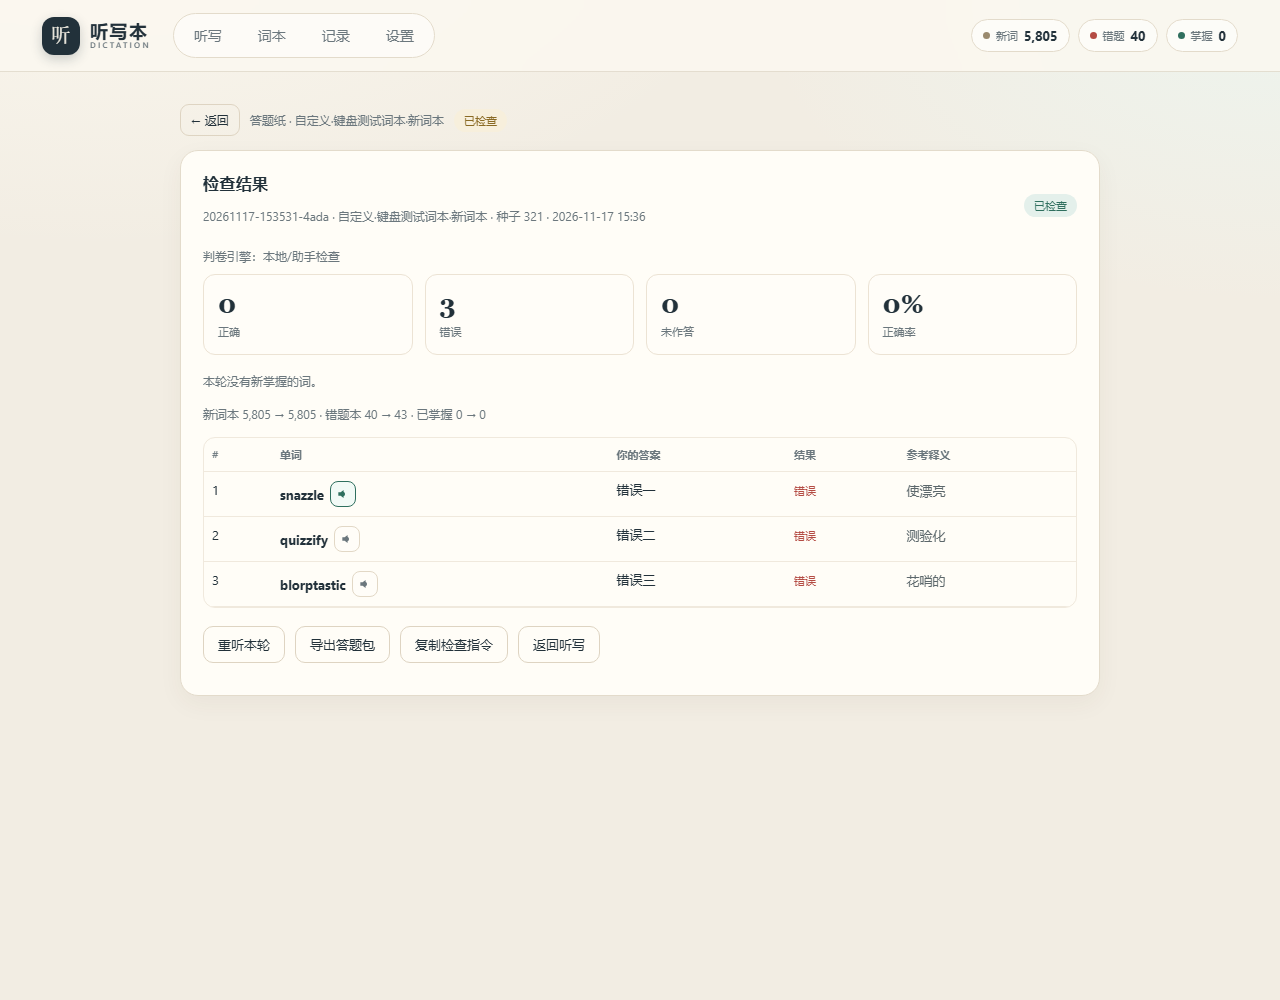
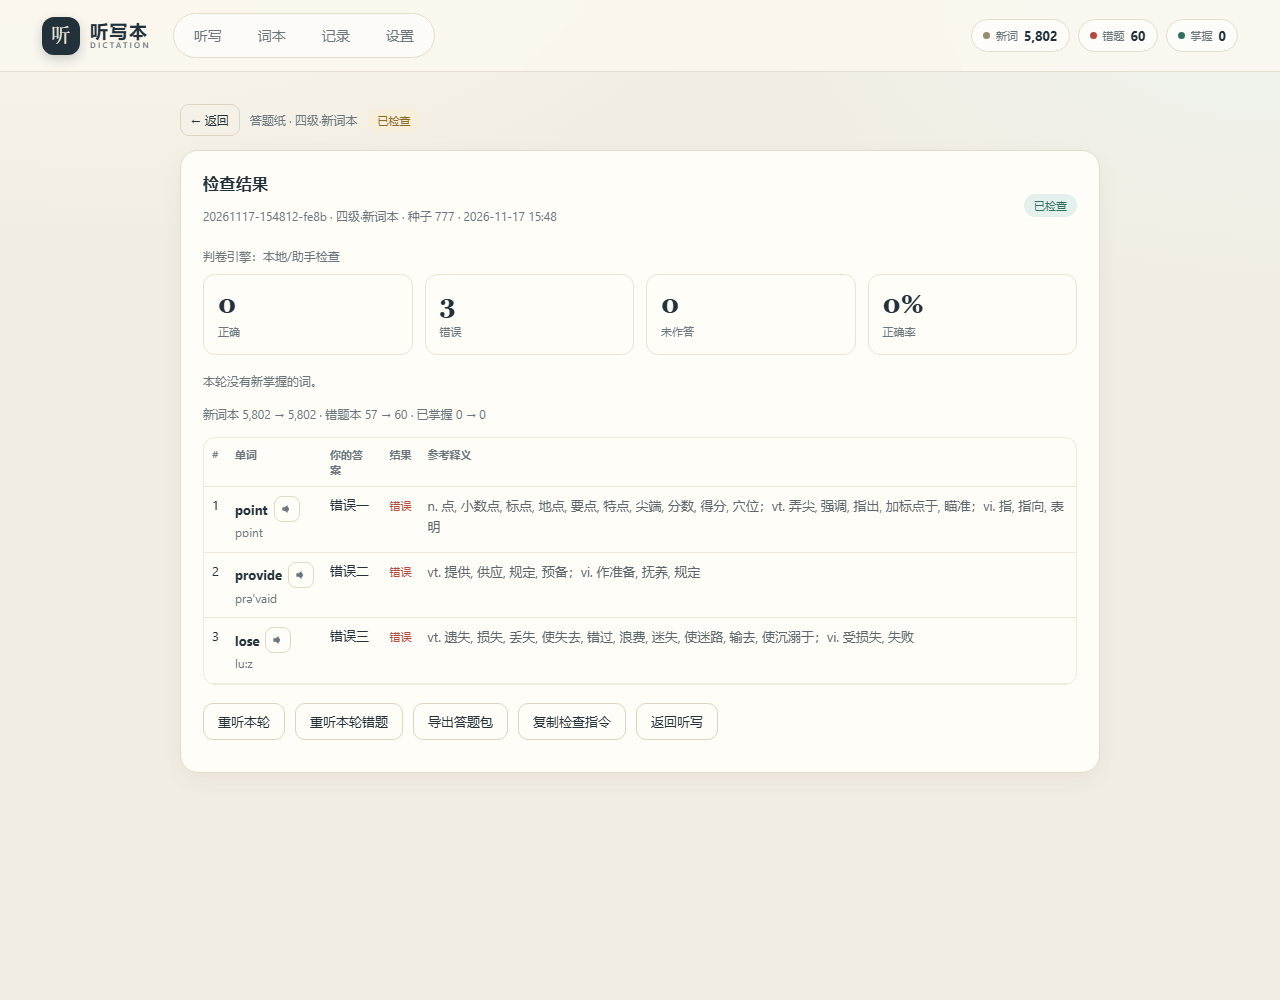
v0.2.1: replay this round's wrong words

diff --git a/web/app.js b/web/app.js
@@ -1497,6 +1497,7 @@ function renderResult(report) {
     </div>
     <div class="actions">
       <button class="ghost" type="button" data-replay-session="${escapeHtml(session.id)}">重听本轮</button>
+      <button class="ghost" type="button" data-retry-wrong="${escapeHtml(session.id)}">重听本轮错题</button>
       <button class="ghost" type="button" data-export-packet="${escapeHtml(session.id)}">导出答题包</button>
       <button class="ghost" type="button" data-copy-check="${escapeHtml(session.id)}">复制检查指令</button>
       <button class="ghost" type="button" data-nav="setup">返回听写</button>
@@ -1694,6 +1695,19 @@ async function replaySession(id) {
   }
 }
 
+async function retryWrongWords(id) {
+  try {
+    const data = await api(`/api/sessions/${id}/retry-wrong`, {
+      method: 'POST',
+      body: { mode: state.mode, interval: state.interval, repeat: state.repeat },
+    });
+    toast(`本轮错题 ${data.wrong_count} 个，开始重听`);
+    startSession(data.session);
+  } catch (err) {
+    toast(err.message, 'error');
+  }
+}
+
 /* ------------------------------------------------------------------ */
 /* settings                                                            */
 /* ------------------------------------------------------------------ */
@@ -1841,6 +1855,8 @@ function bindEvents() {
     if (speak) { speakWord(speak.dataset.speakWord); return; }
     const replay = event.target.closest('[data-replay-session]');
     if (replay) { replaySession(replay.dataset.replaySession); return; }
+    const retry = event.target.closest('[data-retry-wrong]');
+    if (retry) { retryWrongWords(retry.dataset.retryWrong); return; }
     const exportBtn = event.target.closest('[data-export-packet]');
     if (exportBtn) { exportPacket(); return; }
     const copyBtn = event.target.closest('[data-copy-check]');

diff --git a/server.py b/server.py
@@ -298,6 +298,79 @@ class App:
             "markdown": report_markdown(session, check),
         }
 
+    def retry_wrong(self, session_id: str, payload: dict[str, Any]) -> dict[str, Any]:
+        session = load_session(self.data_dir, session_id)
+        if not session:
+            raise ApiError(404, "找不到这个场次")
+        check = load_check(self.data_dir, session_id)
+        if not check:
+            raise ApiError(409, "这一轮还没有检查记录，不能生成本轮错题")
+        wrong_items = [
+            item for item in (check.get("items") or [])
+            if item.get("verdict") != "correct"
+        ]
+        if not wrong_items:
+            raise ApiError(409, "本轮没有错题，全部正确。")
+        original_words = {str(word.get("n")): word for word in (session.get("words") or [])}
+        words = []
+        for word in wrong_items:
+            n = str(word.get("n"))
+            original = original_words.get(n, {})
+            text = str(word.get("word") or original.get("word") or "").strip()
+            if not text:
+                continue
+            words.append({
+                "n": len(words) + 1,
+                "word": text,
+                "phonetic": str(word.get("phonetic") or original.get("phonetic") or ""),
+                "translation": str(word.get("expected") or original.get("translation") or ""),
+                "frq": int(original.get("frq") or 0),
+                "bnc": int(original.get("bnc") or 0),
+                "tags": list(original.get("tags") or ["retry"]),
+            })
+        if not words:
+            raise ApiError(409, "本轮错题没有可重听的单词")
+        try:
+            interval = int(payload.get("interval") or session.get("interval") or 6)
+            repeat = int(payload.get("repeat") or session.get("repeat") or 1)
+        except (TypeError, ValueError):
+            raise ApiError(400, "数字参数格式不正确")
+        mode = str(payload.get("mode") or session.get("mode") or "auto")
+        if mode not in {"auto", "manual"}:
+            raise ApiError(400, "mode 只能是 auto / manual")
+        interval = max(1, min(30, interval))
+        repeat = 2 if repeat == 2 else 1
+        source_name = f"本轮错题 · {session.get('source_name') or '听写'}"
+        new_session = {
+            "id": new_session_id(),
+            "created_at": now_iso(),
+            "app_version": __version__,
+            "source": "retry_wrong",
+            "source_name": source_name,
+            "level": "retry",
+            "book": "wrong",
+            "seed": random_seed(),
+            "order": "original",
+            "mode": mode,
+            "interval": interval,
+            "repeat": repeat,
+            "threshold": int(self.settings().get("threshold") or 5),
+            "pool_requested": len(words),
+            "pool_available": len(words),
+            "pool_size": len(words),
+            "count_requested": len(words),
+            "count": len(words),
+            "heard_count": 0,
+            "words": words,
+        }
+        with self.lock:
+            save_session(self.data_dir, new_session)
+        return {
+            "session": self.public_session(new_session),
+            "from_session": session_id,
+            "wrong_count": len(words),
+        }
+
     # ------------------------------------------------------------------
     # AI grading
     # ------------------------------------------------------------------
@@ -640,6 +713,9 @@ def make_handler(app: App):
                     return
                 if sub == "report" and method == "GET":
                     self._json(200, app.report(session_id))
+                    return
+                if sub == "retry-wrong" and method == "POST":
+                    self._json(201, app.retry_wrong(session_id, self._body()))
                     return
                 if sub == "heard" and method == "POST":
                     self._json(200, app.update_heard(session_id, self._body()))

diff --git a/tests/test_api.py b/tests/test_api.py
@@ -190,6 +190,39 @@ class ApiTests(unittest.TestCase):
         status, wrongbook = self.request("GET", "/api/books?book=wrong")
         self.assertEqual(wrongbook["total"], 1)
 
+    def test_retry_wrong_session(self):
+        status, created = self.request("POST", "/api/sessions", {
+            "source": "new_all", "pool": 7, "count": 3, "seed": 11,
+        })
+        session_id = created["session"]["id"]
+        words = created["session"]["words"]
+        self.request("POST", f"/api/sessions/{session_id}/heard", {"heard_count": 3})
+        answers = {str(word["n"]): "完全错误的答案" for word in words}
+        self.request("POST", f"/api/sessions/{session_id}/answers", {"answers": answers})
+        loaded = load_session(self.data, session_id)
+        repo = WordRepository(self.data)
+        result = compute_result(loaded, answers, threshold=5)
+        apply_result(self.data, loaded, result, repo.total_count())
+
+        status, data = self.request(
+            "POST",
+            f"/api/sessions/{session_id}/retry-wrong",
+            {"mode": "manual", "interval": 4, "repeat": 1},
+        )
+        self.assertEqual(status, 201)
+        retry = data["session"]
+        self.assertEqual(data["wrong_count"], 3)
+        self.assertEqual(retry["count"], 3)
+        self.assertEqual(retry["source"], "retry_wrong")
+        self.assertIn("本轮错题", retry["source_name"])
+        self.assertEqual(retry["mode"], "manual")
+        self.assertEqual([w["word"] for w in retry["words"]], [w["word"] for w in words])
+        self.assertNotIn("translation", retry["words"][0])
+        saved = load_session(self.data, retry["id"])
+        self.assertIsNotNone(saved)
+        self.assertEqual(len(saved["words"]), 3)
+        self.assertTrue(all(w.get("translation") for w in saved["words"]))
+
     def test_wordbook_import_and_custom_source(self):
         content = json.dumps({
             "format": "dictation-wordbook",

diff --git a/dictation/__init__.py b/dictation/__init__.py
@@ -1,4 +1,4 @@
 """Core package for the dictation app."""
 from __future__ import annotations
 
-__version__ = "0.2.0"
+__version__ = "0.2.1"

diff --git a/README.md b/README.md
@@ -1,6 +1,6 @@
 # 听写本
 
-> 当前版本：v0.2.0 · [Releases](https://github.com/Doerrrr/Lession-Exerise/releases)
+> 当前版本：v0.2.1 · [Releases](https://github.com/Doerrrr/Lession-Exerise/releases)
 
 一个本地运行的「机器读单词、你写中文意思、AI 检查」的听写工具。
 
@@ -10,6 +10,7 @@
 - 听写页直接输入答案；按 Enter / 下一个自动保存上一题并清空
 - 自动连读或「读完就停、按键下一个」
 - 连续答对 5 次自动移出新词本；错词留在错题本
+- 检查结果可以每词发音，也可以一键重听本轮错题
 - 答题纸保存成 Markdown，交给 AI 检查并自动更新词本
 - 可选接入 DeepSeek API 直接判卷
 - 纯本地数据，不需要登录
@@ -21,6 +22,8 @@
 ![答题页：AI 判卷、批量填写、导出答题包](docs/answers-ai.png)
 
 ![检查结果：每个单词都可以点小喇叭听](docs/result-listen.png)
+
+![重听本轮错题：只重听这一轮答错的词](docs/retry-wrong.png)
 
 ![导入自定义词本](docs/settings-wordbooks.png)
 
@@ -49,6 +52,7 @@
    - 有 DeepSeek API Key 时，点「AI 判卷」直接判分并更新词本。
    - 没有 Key 时，点「保存答题纸」/「导出答题包」，把答题包交给 AI 助手检查。
 4. **检查**：答题包包含场次 ID、种子和你的答案；检查后错词会写进错题本。
+   - 结果页每个单词都可以点小喇叭听；也可以点「重听本轮错题」只重听这一轮答错/未作答的词（会新建一轮专门的错题轮次）。
 5. **下一轮**：刷新页面，新词本/错题本数量已更新；错词可以直接用「错题本」来源再听。
 
 ## 导入自定义词本

diff --git a/AGENTS.md b/AGENTS.md
@@ -111,6 +111,7 @@ Invoke-RestMethod http://127.0.0.1:8765/api/health
 - AI 返回 `uncertain` 时，派生进度按错题处理；提醒用户可人工复核。
 - 相关接口：`PUT /api/ai/settings`、`POST /api/ai/test`、`POST /api/sessions/<id>/ai-check`。
 - 不配置 API Key 也完全可用：导出答题包 + 你运行 CLI 复核。
+- 结果页有「重听本轮错题」：调用 `POST /api/sessions/<id>/retry-wrong`，从该轮检查记录里取 wrong/blank/uncertain 的词新建一轮 `source: retry_wrong` 的会话；不会改动原轮次。
 
 ## 常用测试
 
